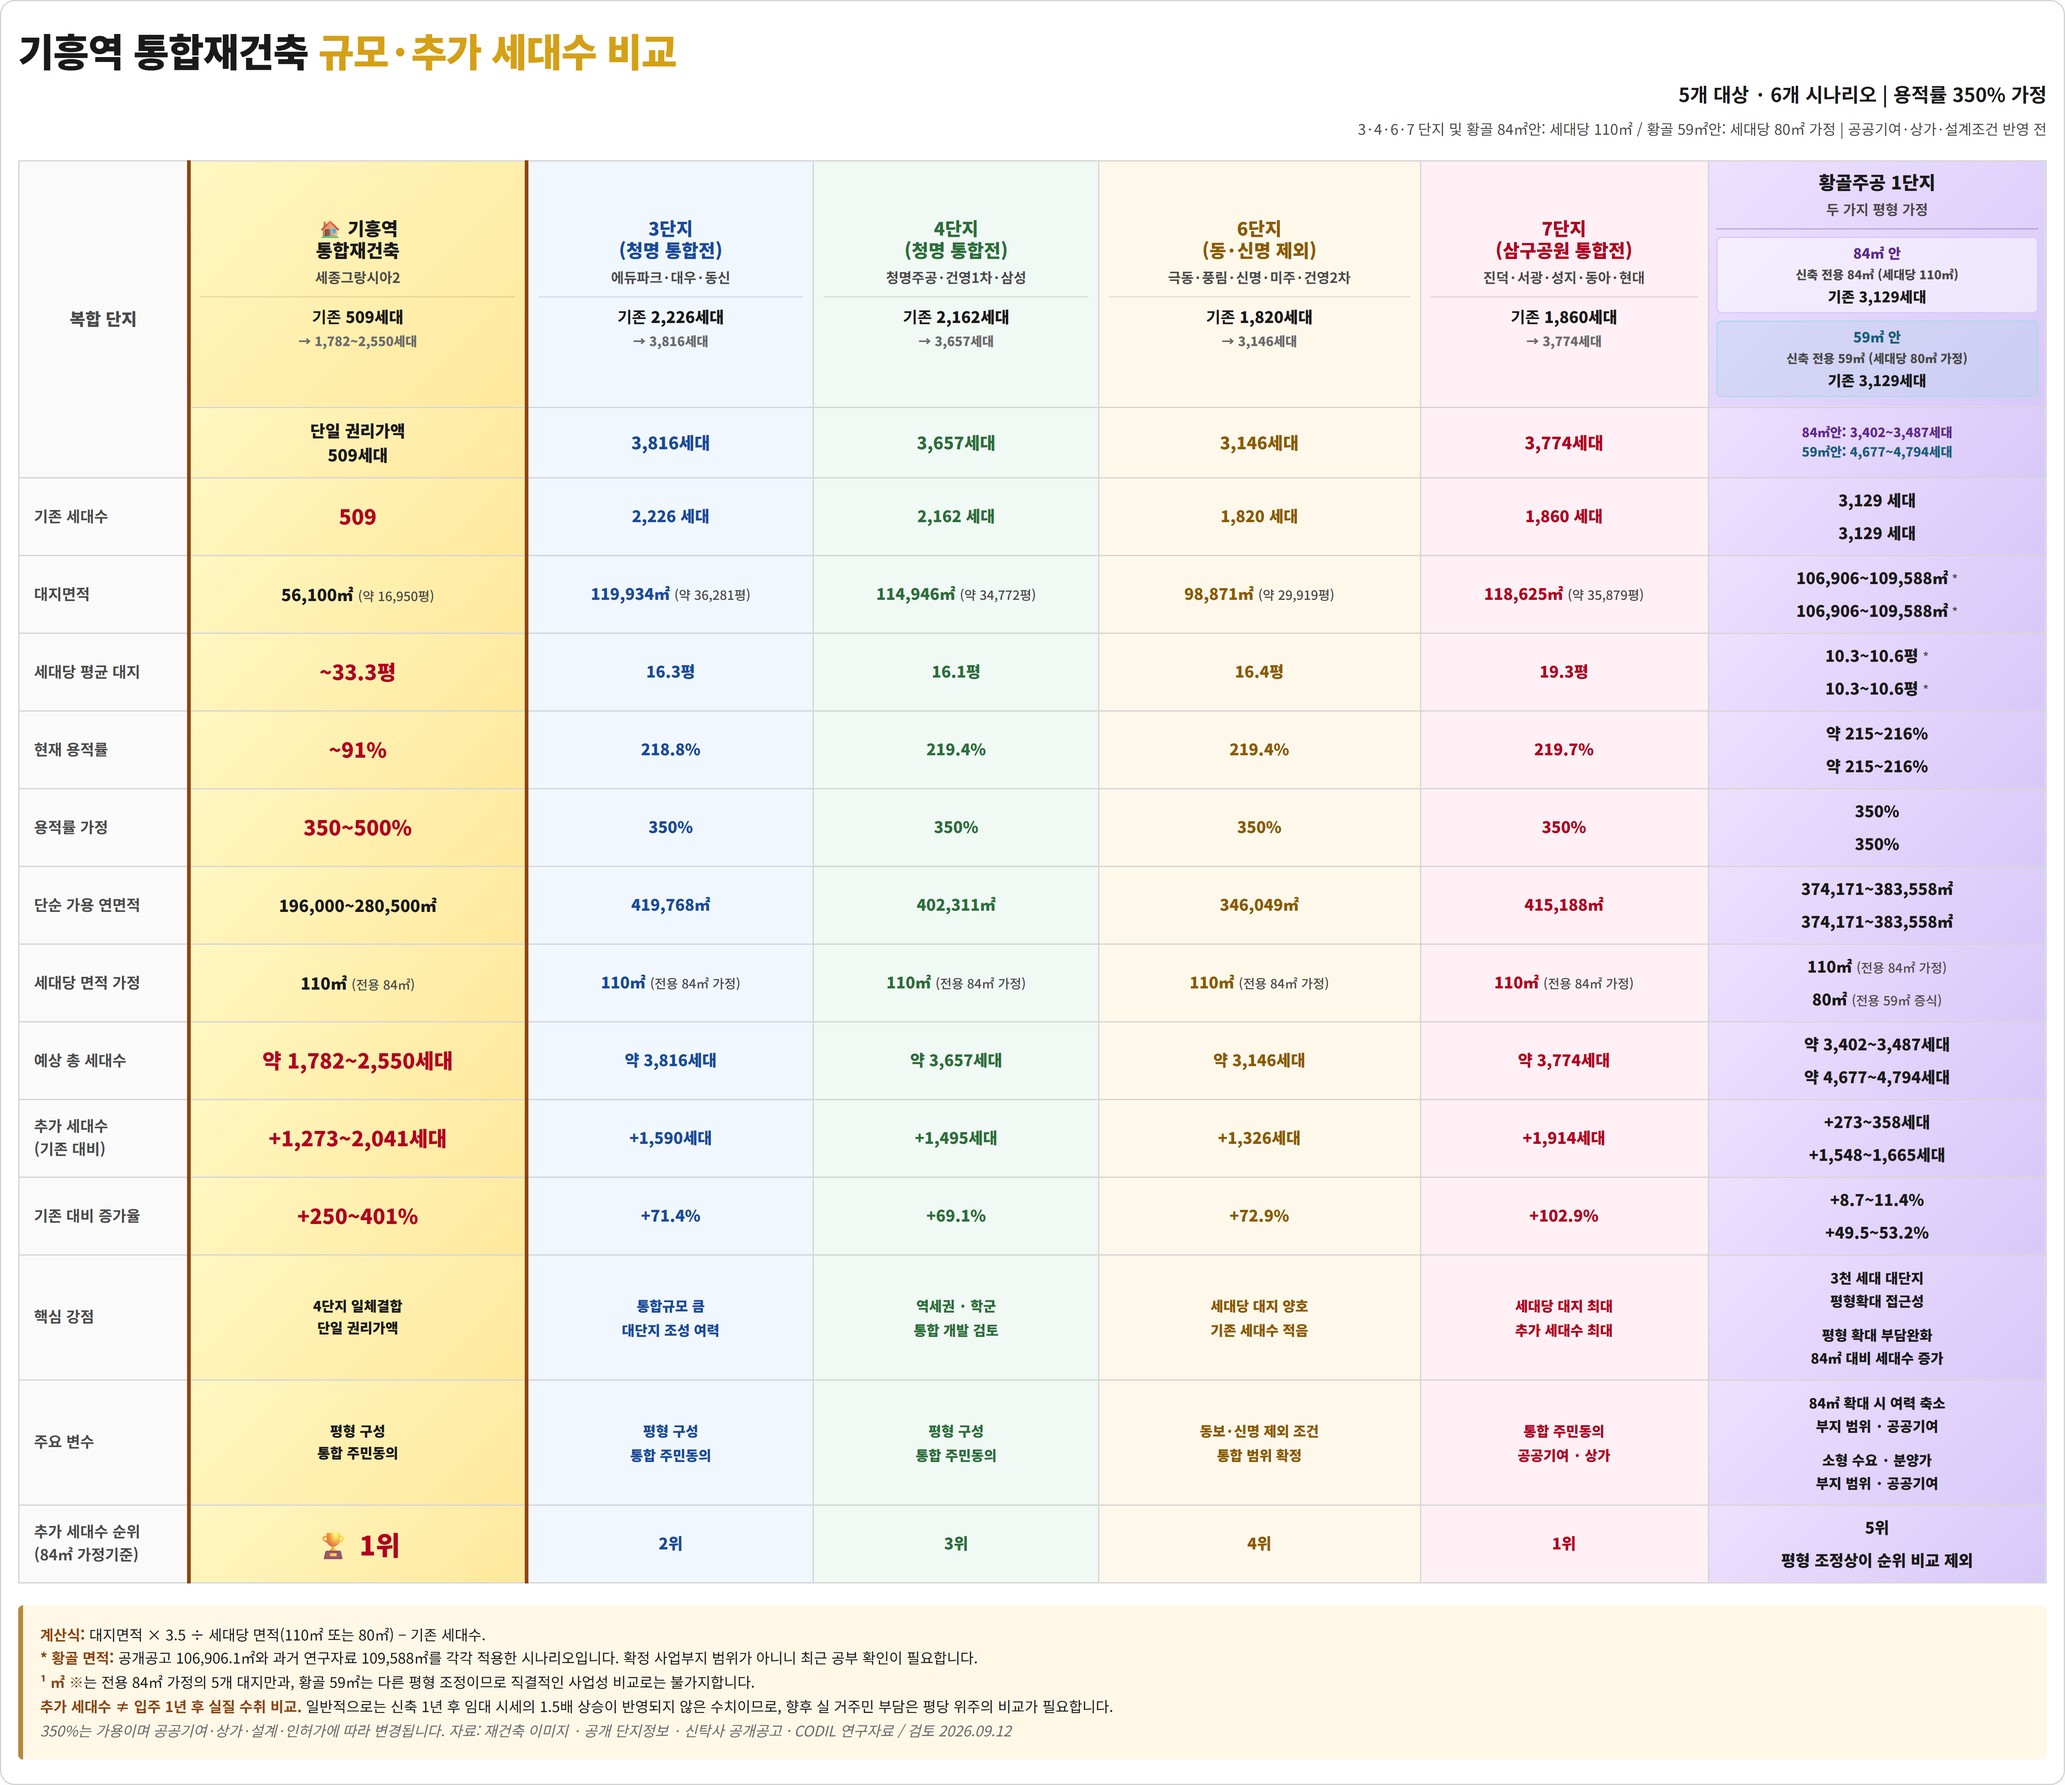
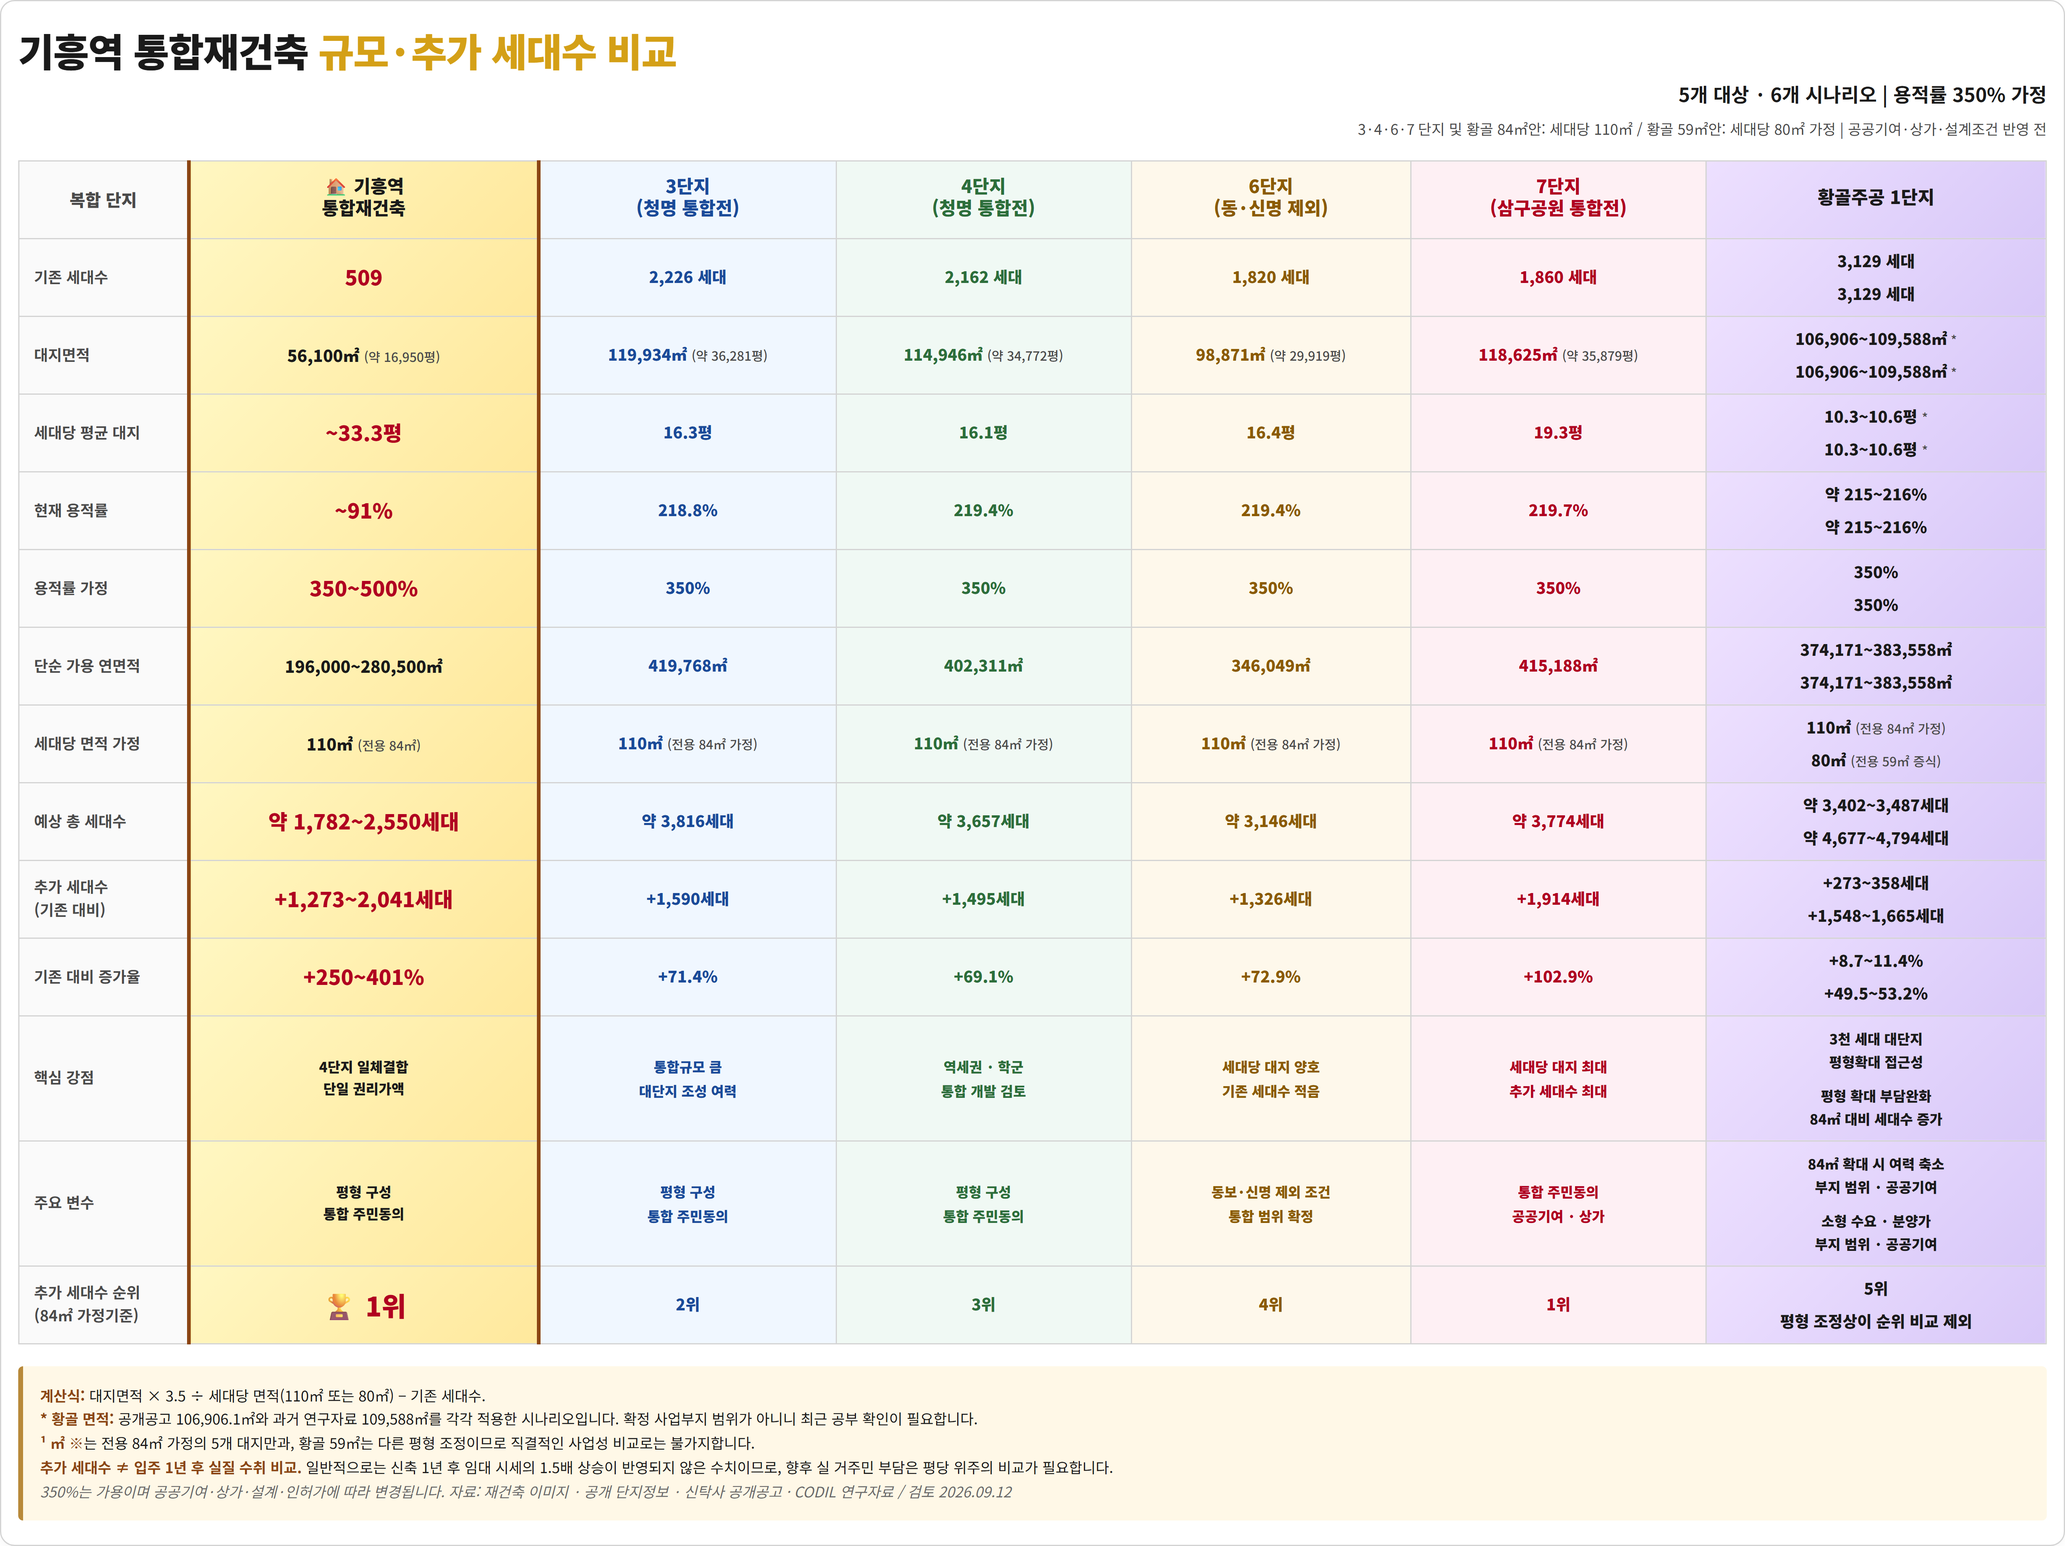
v92: 제목 열 단지명만 표시, 세대수/메타 정보 모두 제거

diff --git a/compare-image.html b/compare-image.html
@@ -269,62 +269,24 @@
         <th class="row-label-complex" rowspan="2">복합 단지</th>
         <th class="col-data-ours">
           <div class="h-name">🏠 기흥역<br>통합재건축</div>
-          <div class="h-sub">세종그랑시아2</div>
-          <div class="h-meta">기존 <strong>509세대</strong></div>
-          <div class="h-meta-sub">→ 1,782~2,550세대</div>
         </th>
         <th class="col-data-3">
           <div class="h-name">3단지<br>(청명 통합전)</div>
-          <div class="h-sub">에듀파크·대우·동신</div>
-          <div class="h-meta">기존 <strong>2,226세대</strong></div>
-          <div class="h-meta-sub">→ 3,816세대</div>
         </th>
         <th class="col-data-4">
           <div class="h-name">4단지<br>(청명 통합전)</div>
-          <div class="h-sub">청명주공·건영1차·삼성</div>
-          <div class="h-meta">기존 <strong>2,162세대</strong></div>
-          <div class="h-meta-sub">→ 3,657세대</div>
         </th>
         <th class="col-data-6">
           <div class="h-name">6단지<br>(동·신명 제외)</div>
-          <div class="h-sub">극동·풍림·신명·미주·건영2차</div>
-          <div class="h-meta">기존 <strong>1,820세대</strong></div>
-          <div class="h-meta-sub">→ 3,146세대</div>
         </th>
         <th class="col-data-7">
           <div class="h-name">7단지<br>(삼구공원 통합전)</div>
-          <div class="h-sub">진덕·서광·성지·동아·현대</div>
-          <div class="h-meta">기존 <strong>1,860세대</strong></div>
-          <div class="h-meta-sub">→ 3,774세대</div>
         </th>
         <th class="col-data-hwangkol">
           <div class="h-name">황골주공 1단지</div>
-          <div class="h-sub">두 가지 평형 가정</div>
-          <div class="hwangkol-stack">
-            <div class="hwangkol-84">
-              <div class="hw-label">84㎡ 안</div>
-              <div class="hw-detail">신축 전용 84㎡ (세대당 110㎡)</div>
-              <div class="hw-meta">기존 <strong>3,129세대</strong></div>
-            </div>
-            <div class="hwangkol-59">
-              <div class="hw-label">59㎡ 안</div>
-              <div class="hw-detail">신축 전용 59㎡ (세대당 80㎡ 가정)</div>
-              <div class="hw-meta">기존 <strong>3,129세대</strong></div>
-            </div>
-          </div>
         </th>
       </tr>
-      <tr>
-        <th class="col-data-ours col-subheader">단일 권리가액<br>509세대</th>
-        <th class="col-data-3 col-subheader">3,816세대</th>
-        <th class="col-data-4 col-subheader">3,657세대</th>
-        <th class="col-data-6 col-subheader">3,146세대</th>
-        <th class="col-data-7 col-subheader">3,774세대</th>
-        <th class="col-data-hwangkol col-subheader">
-          <div class="sub-84">84㎡안: 3,402~3,487세대</div>
-          <div class="sub-59">59㎡안: 4,677~4,794세대</div>
-        </th>
-      </tr>
+
     </thead>
     <tbody>
       <tr><th class="row-label">기존 세대수</th><td class="col-data-ours"><span class="num">509</span></td><td class="col-data-3">2,226 세대</td><td class="col-data-4">2,162 세대</td><td class="col-data-6">1,820 세대</td><td class="col-data-7">1,860 세대</td><td class="col-data-hwangkol"><div class="td-84">3,129 세대</div><div class="td-59-sep"></div><div class="td-59">3,129 세대</div></td></tr>
